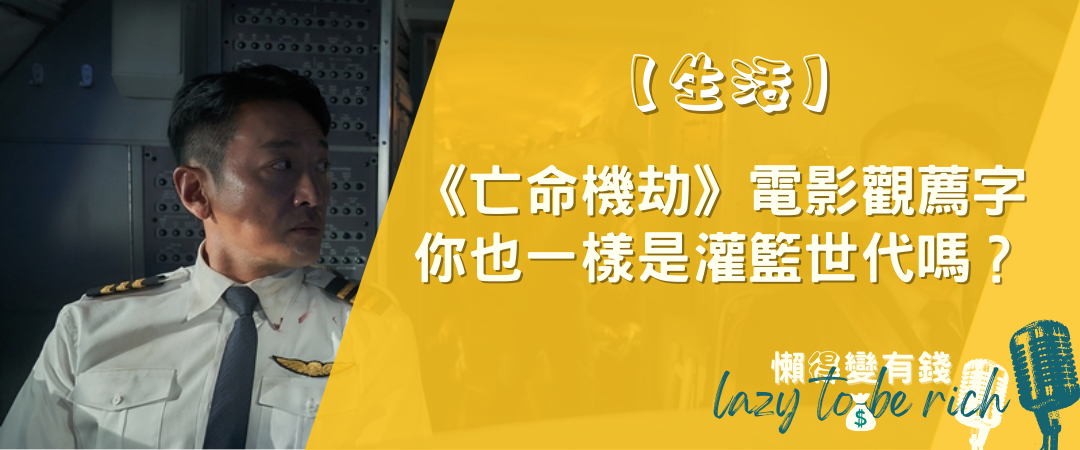
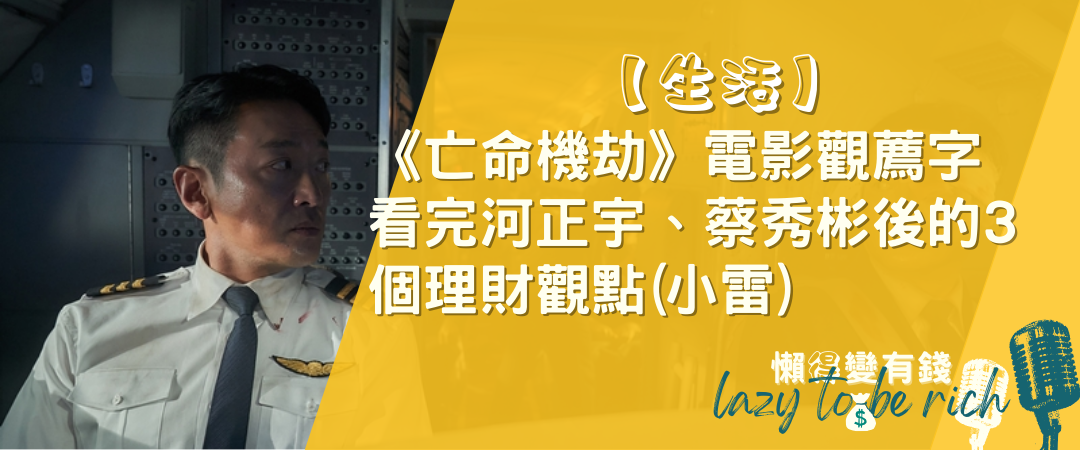
更新文章內容： 20240714

Changed region(s): [[0.3361, 0.1244, 0.9472, 0.7156]]

diff --git a/content/blog/2024-07-14【生活】《亡命機劫》電影觀薦字，看完河正宇、蔡秀彬後的5大理財觀察點(小雷).md b/content/blog/2024-07-14【生活】《亡命機劫》電影觀薦字，看完河正宇、蔡秀彬後的5大理財觀察點(小雷).md
@@ -1,5 +1,5 @@
 ---
-title: 【生活】《亡命機劫》電影觀薦字，看完河正宇、蔡秀彬後的5大理財觀察點(小雷)
+title: 【生活】《亡命機劫》電影觀薦字，看完河正宇、蔡秀彬後的3個理財觀點(小雷)
 description: 《亡命機劫》是一部根據1971年真實故事改編的電影，講述了一架被劫持的客機上的故事。電影結合了歷史劇情和動作片元素，情節電影化但沒有過度失真。觀影者可以從中得到一些理財觀察點，並提醒搭機時要注意旅遊平安險。
 author: 懶大
 release: 2024-07-14
